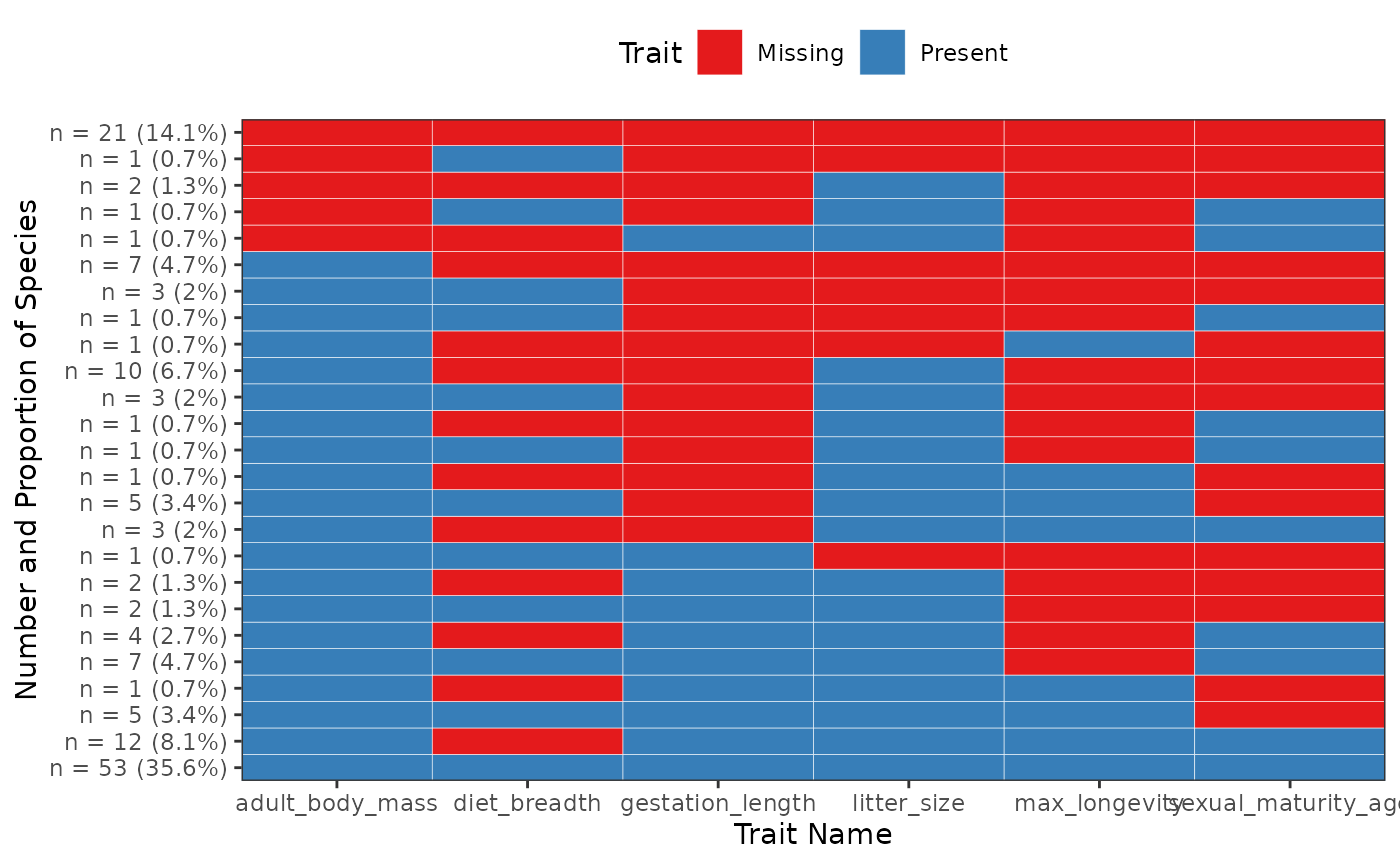
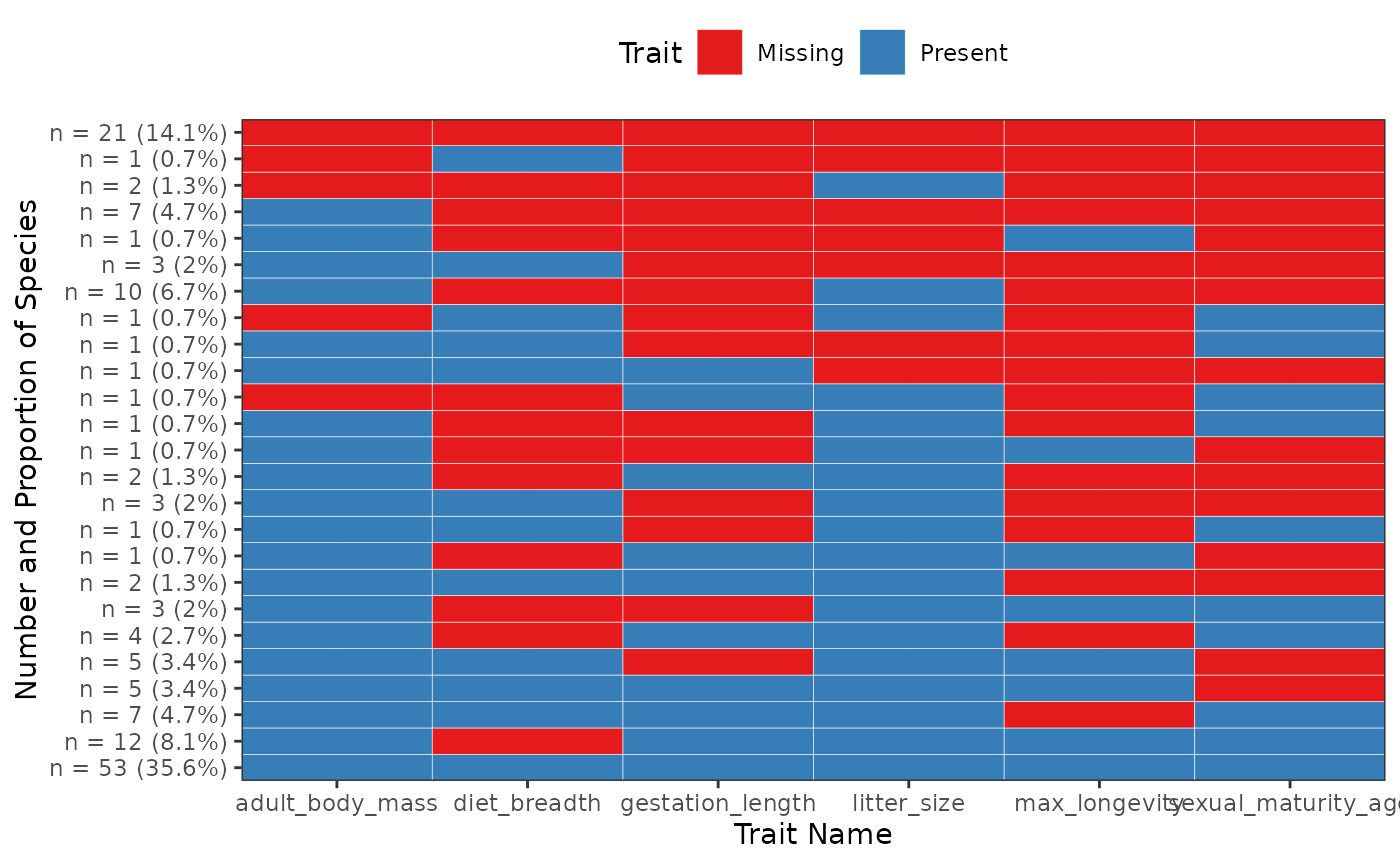
Deploying to gh-pages from @ FRBCesab/funbiogeo@389e59da3cf3da291c18e67696ca78a67d65e002 🚀

diff --git a/reference/fb_make_report.html b/reference/fb_make_report.html
@@ -176,7 +176,7 @@ text editor.</p></dd>
 <span class="r-in"><span>  site_locations_name <span class="op">=</span> <span class="st">"site_locations"</span>,</span></span>
 <span class="r-in"><span>  open <span class="op">=</span> <span class="cn">FALSE</span></span></span>
 <span class="r-in"><span><span class="op">)</span></span></span>
-<span class="r-msg co"><span class="r-pr">#&gt;</span> The file '/tmp/RtmpSwU9cl/funbiogeo_report.Rmd' was created!</span>
+<span class="r-msg co"><span class="r-pr">#&gt;</span> The file '/tmp/RtmpHjbDot/funbiogeo_report.Rmd' was created!</span>
 <span class="r-msg co"><span class="r-pr">#&gt;</span> Open it then use knitr::knit() or rmarkdown::render() to render it.</span>
 <span class="r-in"><span></span></span>
 <span class="r-in"><span><span class="kw">if</span> <span class="op">(</span><span class="cn">FALSE</span><span class="op">)</span> <span class="op">{</span></span></span>

diff --git a/reference/fb_plot_trait_combination_frequencies.html b/reference/fb_plot_trait_combination_frequencies.html
@@ -95,7 +95,8 @@ to trait names.</p></dd>
 <dd><p><code>character(1)</code> either <code>"number"</code> or <code>"complete</code><br>
 If <code>"number"</code> order rows by frequency so that most
 frequent rows are at the bottom.
-Otherwise order rows to  show table by present traits</p></dd>
+Otherwise order rows to order table by the number of
+non-missing traits then by the frequency of combinations</p></dd>
 
 </dl></div>
     <div id="value">
